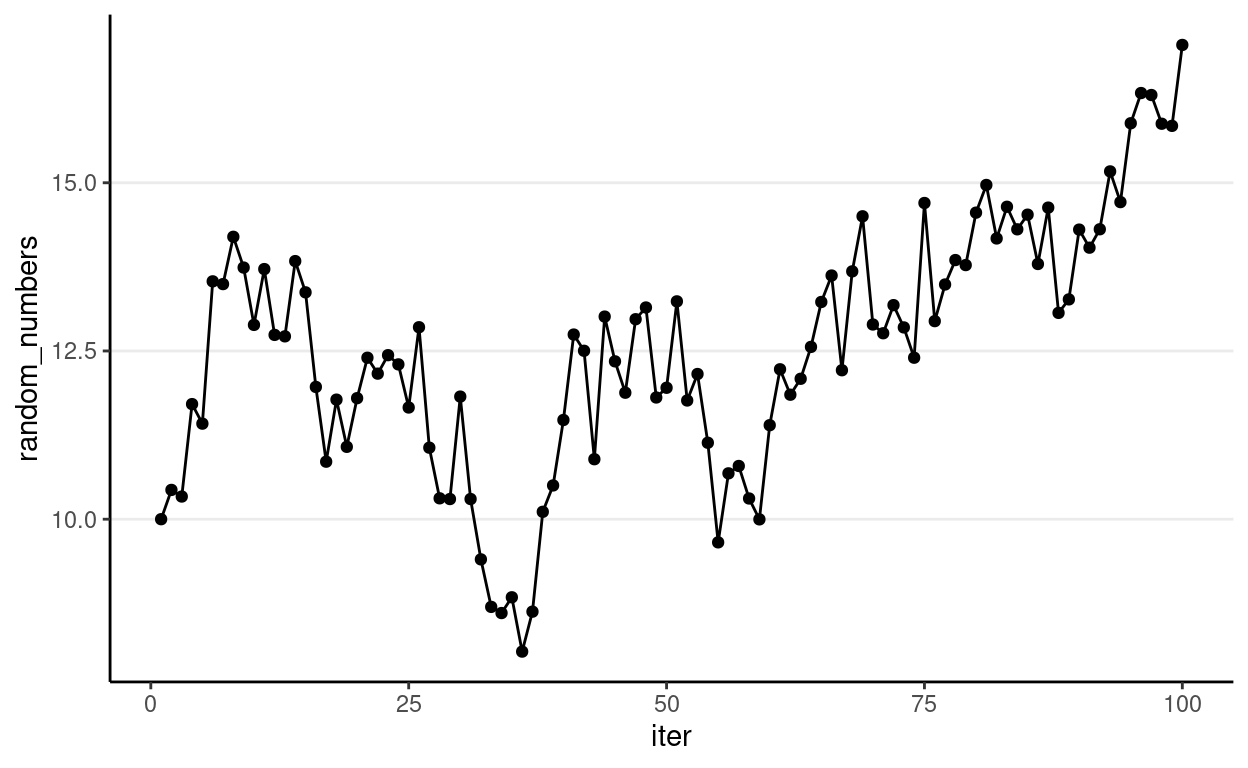
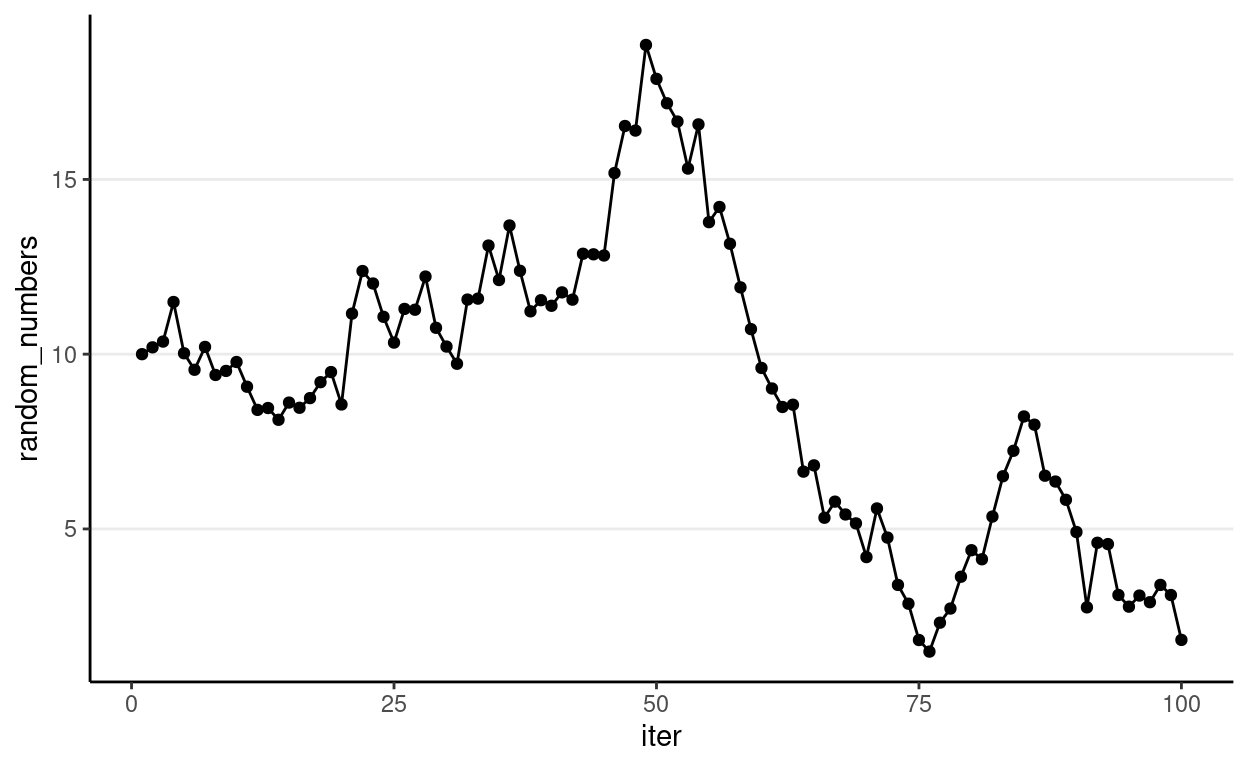
Update names, license, and landing page

diff --git a/_site/r_basics.html b/_site/r_basics.html
@@ -87,25 +87,26 @@ code span.wa { color: #5e5e5e; font-style: italic; } /* Warning */
 
 
   <!--radix_placeholder_meta_tags-->
-  <title>PSYC 573 Multilevel Modeling (2022 Spring): R Basics</title>
+  <title>PSYC 573 Bayesian Data Analysis (2022 Spring): R Basics</title>
 
   <meta property="description" itemprop="description" content="Review of basic syntax in R"/>
 
+  <link rel="license" href="https://creativecommons.org/licenses/by-nc-sa/4.0/"/>
 
   <!--  https://schema.org/Article -->
   <meta property="article:published" itemprop="datePublished" content="2021-12-18"/>
   <meta property="article:created" itemprop="dateCreated" content="2021-12-18"/>
 
   <!--  https://developers.facebook.com/docs/sharing/webmasters#markup -->
-  <meta property="og:title" content="PSYC 573 Multilevel Modeling (2022 Spring): R Basics"/>
+  <meta property="og:title" content="PSYC 573 Bayesian Data Analysis (2022 Spring): R Basics"/>
   <meta property="og:type" content="article"/>
   <meta property="og:description" content="Review of basic syntax in R"/>
   <meta property="og:locale" content="en_US"/>
-  <meta property="og:site_name" content="PSYC 573 Multilevel Modeling (2022 Spring)"/>
+  <meta property="og:site_name" content="PSYC 573 Bayesian Data Analysis (2022 Spring)"/>
 
   <!--  https://dev.twitter.com/cards/types/summary -->
   <meta property="twitter:card" content="summary"/>
-  <meta property="twitter:title" content="PSYC 573 Multilevel Modeling (2022 Spring): R Basics"/>
+  <meta property="twitter:title" content="PSYC 573 Bayesian Data Analysis (2022 Spring): R Basics"/>
   <meta property="twitter:description" content="Review of basic syntax in R"/>
 
   <!--/radix_placeholder_meta_tags-->
@@ -2428,7 +2429,7 @@ code span.wa { color: #5e5e5e; font-style: italic; } /* Warning */
 <header class="header header--fixed" role="banner">
 <nav class="distill-site-nav distill-site-header">
 <div class="nav-left">
-<a href="index.html" class="title">PSYC 573 Multilevel Modeling (2022 Spring)</a>
+<a href="index.html" class="title">PSYC 573 Bayesian Data Analysis (2022 Spring)</a>
 </div>
 <div class="nav-right">
 <a href="index.html">Home</a>
@@ -2443,6 +2444,9 @@ Notes
 <a href="r_basics.html">R Basics</a>
 </div>
 </div>
+<a href="https://github.com/marklhc/20221-psyc573-usc" aria-label="Link to source">
+<i class="fab fa-github" aria-hidden="true"></i>
+</a>
 <a href="javascript:void(0);" class="nav-toggle">&#9776;</a>
 </div>
 </nav>
@@ -2686,20 +2690,20 @@ Note: The <code>%&gt;%</code> operator requires loading the <code>tidyverse</cod
 </div>
 <pre><code>#&gt; , , 1
 #&gt; 
-#&gt;              [,1]       [,2]
-#&gt; [1,] -0.127125940 -0.5683933
-#&gt; [2,]  0.003396637 -0.6254829
+#&gt;            [,1]      [,2]
+#&gt; [1,] -0.3887852 0.9939798
+#&gt; [2,] -1.5437182 1.1080378
 #&gt; 
 #&gt; , , 2
 #&gt; 
-#&gt;           [,1]       [,2]
-#&gt; [1,]  1.649242  0.6741832
-#&gt; [2,] -1.019481 -0.7365945</code></pre>
+#&gt;            [,1]       [,2]
+#&gt; [1,] -0.6589365 -0.9265619
+#&gt; [2,] -1.1022893  0.6659507</code></pre>
 <div class="sourceCode">
 <pre class="sourceCode r"><code class="sourceCode r"><span class='fu'><a href='https://rdrr.io/r/utils/str.html'>str</a></span><span class='op'>(</span><span class='va'>array_d</span><span class='op'>)</span>
 </code></pre>
 </div>
-<pre><code>#&gt;  num [1:2, 1:2, 1:2] -0.1271 0.0034 -0.5684 -0.6255 1.6492 ...</code></pre>
+<pre><code>#&gt;  num [1:2, 1:2, 1:2] -0.389 -1.544 0.994 1.108 -0.659 ...</code></pre>
 <div class="sourceCode">
 <pre class="sourceCode r"><code class="sourceCode r"><span class='fu'><a href='https://rdrr.io/r/base/typeof.html'>typeof</a></span><span class='op'>(</span><span class='va'>array_d</span><span class='op'>)</span>  <span class='co'># numeric type</span>
 </code></pre>
@@ -2724,7 +2728,7 @@ Note: The <code>%&gt;%</code> operator requires loading the <code>tidyverse</cod
 <pre class="sourceCode r"><code class="sourceCode r"><span class='va'>array_d</span><span class='op'>[</span><span class='fl'>1</span>, <span class='fl'>1</span>,<span class='op'>]</span>  <span class='co'># use 3 indices for a 3-D array</span>
 </code></pre>
 </div>
-<pre><code>#&gt; [1] -0.1271259  1.6492415</code></pre>
+<pre><code>#&gt; [1] -0.3887852 -0.6589365</code></pre>
 </div>
 <div class="layout-chunk" data-layout="l-body">
 <div class="sourceCode">
@@ -2948,7 +2952,8 @@ Note: The <code>%&gt;%</code> operator requires loading the <code>tidyverse</cod
 <p>The following example shows an example of drawing a random variable from a normal distribution with <em>SD</em> = 1, and with the mean equals to the previously generated number.</p>
 <div class="layout-chunk" data-layout="l-body">
 <div class="sourceCode">
-<pre class="sourceCode r"><code class="sourceCode r"><span class='co'># Simulate data</span>
+<pre class="sourceCode r"><code class="sourceCode r"><span class='fu'><a href='https://rdrr.io/r/base/Random.html'>set.seed</a></span><span class='op'>(</span><span class='fl'>2208</span><span class='op'>)</span>  <span class='co'># for reproducibility</span>
+<span class='co'># Simulate data</span>
 <span class='va'>random_numbers</span> <span class='op'>&lt;-</span> <span class='fu'><a href='https://rdrr.io/r/base/rep.html'>rep</a></span><span class='op'>(</span><span class='cn'>NA</span>, <span class='fl'>100</span><span class='op'>)</span>  <span class='co'># initialize an empty vector</span>
 <span class='va'>random_numbers</span><span class='op'>[</span><span class='fl'>1</span><span class='op'>]</span> <span class='op'>&lt;-</span> <span class='fl'>10</span>  <span class='co'># set the first value to 10</span>
 <span class='co'># i = 2 in the first iteration, then 3, then 4, until i = 100</span>
@@ -3076,7 +3081,12 @@ Note: The <code>%&gt;%</code> operator requires loading the <code>tidyverse</cod
 <!--radix_placeholder_site_after_body-->
 <!--/radix_placeholder_site_after_body-->
 <!--radix_placeholder_appendices-->
-<div class="appendix-bottom"></div>
+<div class="appendix-bottom">
+<h3 id="updates-and-corrections">Corrections</h3>
+<p>If you see mistakes or want to suggest changes, please <a href="https://github.com/marklhc/20221-psyc573-usc/issues/new">create an issue</a> on the source repository.</p>
+<h3 id="reuse">Reuse</h3>
+<p>Text and figures are licensed under Creative Commons Attribution <a rel="license" href="https://creativecommons.org/licenses/by-nc-sa/4.0/">CC BY-NC-SA 4.0</a>. Source code is available at <a href="https://github.com/marklhc/20221-psyc573-usc">https://github.com/marklhc/20221-psyc573-usc</a>, unless otherwise noted. The figures that have been reused from other sources don't fall under this license and can be recognized by a note in their caption: "Figure from ...".</p>
+</div>
 <!--/radix_placeholder_appendices-->
 <!--radix_placeholder_navigation_after_body-->
 <div class="distill-site-nav distill-site-footer">

diff --git a/_site/index.html b/_site/index.html
@@ -87,29 +87,30 @@ code span.wa { color: #5e5e5e; font-style: italic; } /* Warning */
 
 
   <!--radix_placeholder_meta_tags-->
-  <title>PSYC 573 Multilevel Modeling (2022 Spring)</title>
+  <title>PSYC 573 Bayesian Data Analysis (2022 Spring): PSYC 573 Multilevel Modeling (2022 Spring)</title>
 
-  <meta property="description" itemprop="description" content="Welcome to the website. I hope you enjoy it!"/>
+  <meta property="description" itemprop="description" content="Welcome to the website. Let&#39;s have a great semester!"/>
 
+  <link rel="license" href="https://creativecommons.org/licenses/by-nc-sa/4.0/"/>
 
 
   <!--  https://developers.facebook.com/docs/sharing/webmasters#markup -->
-  <meta property="og:title" content="PSYC 573 Multilevel Modeling (2022 Spring)"/>
+  <meta property="og:title" content="PSYC 573 Bayesian Data Analysis (2022 Spring): PSYC 573 Multilevel Modeling (2022 Spring)"/>
   <meta property="og:type" content="article"/>
-  <meta property="og:description" content="Welcome to the website. I hope you enjoy it!"/>
+  <meta property="og:description" content="Welcome to the website. Let&#39;s have a great semester!"/>
   <meta property="og:locale" content="en_US"/>
-  <meta property="og:site_name" content="PSYC 573 Multilevel Modeling (2022 Spring)"/>
+  <meta property="og:site_name" content="PSYC 573 Bayesian Data Analysis (2022 Spring)"/>
 
   <!--  https://dev.twitter.com/cards/types/summary -->
   <meta property="twitter:card" content="summary"/>
-  <meta property="twitter:title" content="PSYC 573 Multilevel Modeling (2022 Spring)"/>
-  <meta property="twitter:description" content="Welcome to the website. I hope you enjoy it!"/>
+  <meta property="twitter:title" content="PSYC 573 Bayesian Data Analysis (2022 Spring): PSYC 573 Multilevel Modeling (2022 Spring)"/>
+  <meta property="twitter:description" content="Welcome to the website. Let&#39;s have a great semester!"/>
 
   <!--/radix_placeholder_meta_tags-->
   <!--radix_placeholder_rmarkdown_metadata-->
 
   <script type="text/json" id="radix-rmarkdown-metadata">
-  {"type":"list","attributes":{"names":{"type":"character","attributes":{},"value":["title","description","site"]}},"value":[{"type":"character","attributes":{},"value":["PSYC 573 Multilevel Modeling (2022 Spring)"]},{"type":"character","attributes":{},"value":["Welcome to the website. I hope you enjoy it!\n"]},{"type":"character","attributes":{},"value":["distill::distill_website"]}]}
+  {"type":"list","attributes":{"names":{"type":"character","attributes":{},"value":["title","description","site"]}},"value":[{"type":"character","attributes":{},"value":["PSYC 573 Multilevel Modeling (2022 Spring)"]},{"type":"character","attributes":{},"value":["Welcome to the website. Let's have a great semester!\n"]},{"type":"character","attributes":{},"value":["distill::distill_website"]}]}
   </script>
   <!--/radix_placeholder_rmarkdown_metadata-->
   <!--radix_placeholder_navigation_in_header-->
@@ -2411,7 +2412,7 @@ code span.wa { color: #5e5e5e; font-style: italic; } /* Warning */
 <!--radix_placeholder_front_matter-->
 
 <script id="distill-front-matter" type="text/json">
-{"title":"PSYC 573 Multilevel Modeling (2022 Spring)","description":"Welcome to the website. I hope you enjoy it!","authors":[]}
+{"title":"PSYC 573 Multilevel Modeling (2022 Spring)","description":"Welcome to the website. Let's have a great semester!","authors":[]}
 </script>
 
 <!--/radix_placeholder_front_matter-->
@@ -2419,7 +2420,7 @@ code span.wa { color: #5e5e5e; font-style: italic; } /* Warning */
 <header class="header header--fixed" role="banner">
 <nav class="distill-site-nav distill-site-header">
 <div class="nav-left">
-<a href="index.html" class="title">PSYC 573 Multilevel Modeling (2022 Spring)</a>
+<a href="index.html" class="title">PSYC 573 Bayesian Data Analysis (2022 Spring)</a>
 </div>
 <div class="nav-right">
 <a href="index.html">Home</a>
@@ -2434,6 +2435,9 @@ Notes
 <a href="r_basics.html">R Basics</a>
 </div>
 </div>
+<a href="https://github.com/marklhc/20221-psyc573-usc" aria-label="Link to source">
+<i class="fab fa-github" aria-hidden="true"></i>
+</a>
 <a href="javascript:void(0);" class="nav-toggle">&#9776;</a>
 </div>
 </nav>
@@ -2446,11 +2450,12 @@ Notes
 <h1>PSYC 573 Multilevel Modeling (2022 Spring)</h1>
 <!--radix_placeholder_categories-->
 <!--/radix_placeholder_categories-->
-<p><p>Welcome to the website. I hope you enjoy it!</p></p>
+<p><p>Welcome to the website. Let’s have a great semester!</p></p>
 </div>
 
 
 <div class="d-article">
+<p>This is a course website for PSYC 573 in the 2022 Spring semester. You will find the syllabus, lecture slides, and course notes in the navigation bar in the top right corner. Homework submission will be through <a href="https://blackboard.usc.edu">Blackboard</a>.</p>
 <div class="sourceCode" id="cb1"><pre class="sourceCode r distill-force-highlighting-css"><code class="sourceCode r"></code></pre></div>
 <!--radix_placeholder_article_footer-->
 <!--/radix_placeholder_article_footer-->
@@ -2463,7 +2468,12 @@ Notes
 <!--radix_placeholder_site_after_body-->
 <!--/radix_placeholder_site_after_body-->
 <!--radix_placeholder_appendices-->
-<div class="appendix-bottom"></div>
+<div class="appendix-bottom">
+<h3 id="updates-and-corrections">Corrections</h3>
+<p>If you see mistakes or want to suggest changes, please <a href="https://github.com/marklhc/20221-psyc573-usc/issues/new">create an issue</a> on the source repository.</p>
+<h3 id="reuse">Reuse</h3>
+<p>Text and figures are licensed under Creative Commons Attribution <a rel="license" href="https://creativecommons.org/licenses/by-nc-sa/4.0/">CC BY-NC-SA 4.0</a>. Source code is available at <a href="https://github.com/marklhc/20221-psyc573-usc">https://github.com/marklhc/20221-psyc573-usc</a>, unless otherwise noted. The figures that have been reused from other sources don't fall under this license and can be recognized by a note in their caption: "Figure from ...".</p>
+</div>
 <!--/radix_placeholder_appendices-->
 <!--radix_placeholder_navigation_after_body-->
 <div class="distill-site-nav distill-site-footer">

diff --git a/_site/syllabus.html b/_site/syllabus.html
@@ -87,22 +87,23 @@ code span.wa { color: #5e5e5e; font-style: italic; } /* Warning */
 
 
   <!--radix_placeholder_meta_tags-->
-  <title>PSYC 573 Multilevel Modeling (2022 Spring): PSYC 573 Bayesian Data Analysis</title>
+  <title>PSYC 573 Bayesian Data Analysis (2022 Spring): PSYC 573 Bayesian Data Analysis</title>
 
   <meta property="description" itemprop="description" content="Course syllabus (PSYC 573, 2022 Spring)"/>
 
+  <link rel="license" href="https://creativecommons.org/licenses/by-nc-sa/4.0/"/>
 
 
   <!--  https://developers.facebook.com/docs/sharing/webmasters#markup -->
-  <meta property="og:title" content="PSYC 573 Multilevel Modeling (2022 Spring): PSYC 573 Bayesian Data Analysis"/>
+  <meta property="og:title" content="PSYC 573 Bayesian Data Analysis (2022 Spring): PSYC 573 Bayesian Data Analysis"/>
   <meta property="og:type" content="article"/>
   <meta property="og:description" content="Course syllabus (PSYC 573, 2022 Spring)"/>
   <meta property="og:locale" content="en_US"/>
-  <meta property="og:site_name" content="PSYC 573 Multilevel Modeling (2022 Spring)"/>
+  <meta property="og:site_name" content="PSYC 573 Bayesian Data Analysis (2022 Spring)"/>
 
   <!--  https://dev.twitter.com/cards/types/summary -->
   <meta property="twitter:card" content="summary"/>
-  <meta property="twitter:title" content="PSYC 573 Multilevel Modeling (2022 Spring): PSYC 573 Bayesian Data Analysis"/>
+  <meta property="twitter:title" content="PSYC 573 Bayesian Data Analysis (2022 Spring): PSYC 573 Bayesian Data Analysis"/>
   <meta property="twitter:description" content="Course syllabus (PSYC 573, 2022 Spring)"/>
 
   <!--/radix_placeholder_meta_tags-->
@@ -2419,7 +2420,7 @@ code span.wa { color: #5e5e5e; font-style: italic; } /* Warning */
 <header class="header header--fixed" role="banner">
 <nav class="distill-site-nav distill-site-header">
 <div class="nav-left">
-<a href="index.html" class="title">PSYC 573 Multilevel Modeling (2022 Spring)</a>
+<a href="index.html" class="title">PSYC 573 Bayesian Data Analysis (2022 Spring)</a>
 </div>
 <div class="nav-right">
 <a href="index.html">Home</a>
@@ -2434,6 +2435,9 @@ Notes
 <a href="r_basics.html">R Basics</a>
 </div>
 </div>
+<a href="https://github.com/marklhc/20221-psyc573-usc" aria-label="Link to source">
+<i class="fab fa-github" aria-hidden="true"></i>
+</a>
 <a href="javascript:void(0);" class="nav-toggle">&#9776;</a>
 </div>
 </nav>
@@ -2988,7 +2992,12 @@ Non-emergency assistance or information.</p>
 <!--radix_placeholder_site_after_body-->
 <!--/radix_placeholder_site_after_body-->
 <!--radix_placeholder_appendices-->
-<div class="appendix-bottom"></div>
+<div class="appendix-bottom">
+<h3 id="updates-and-corrections">Corrections</h3>
+<p>If you see mistakes or want to suggest changes, please <a href="https://github.com/marklhc/20221-psyc573-usc/issues/new">create an issue</a> on the source repository.</p>
+<h3 id="reuse">Reuse</h3>
+<p>Text and figures are licensed under Creative Commons Attribution <a rel="license" href="https://creativecommons.org/licenses/by-nc-sa/4.0/">CC BY-NC-SA 4.0</a>. Source code is available at <a href="https://github.com/marklhc/20221-psyc573-usc">https://github.com/marklhc/20221-psyc573-usc</a>, unless otherwise noted. The figures that have been reused from other sources don't fall under this license and can be recognized by a note in their caption: "Figure from ...".</p>
+</div>
 <!--/radix_placeholder_appendices-->
 <!--radix_placeholder_navigation_after_body-->
 <div class="distill-site-nav distill-site-footer">
